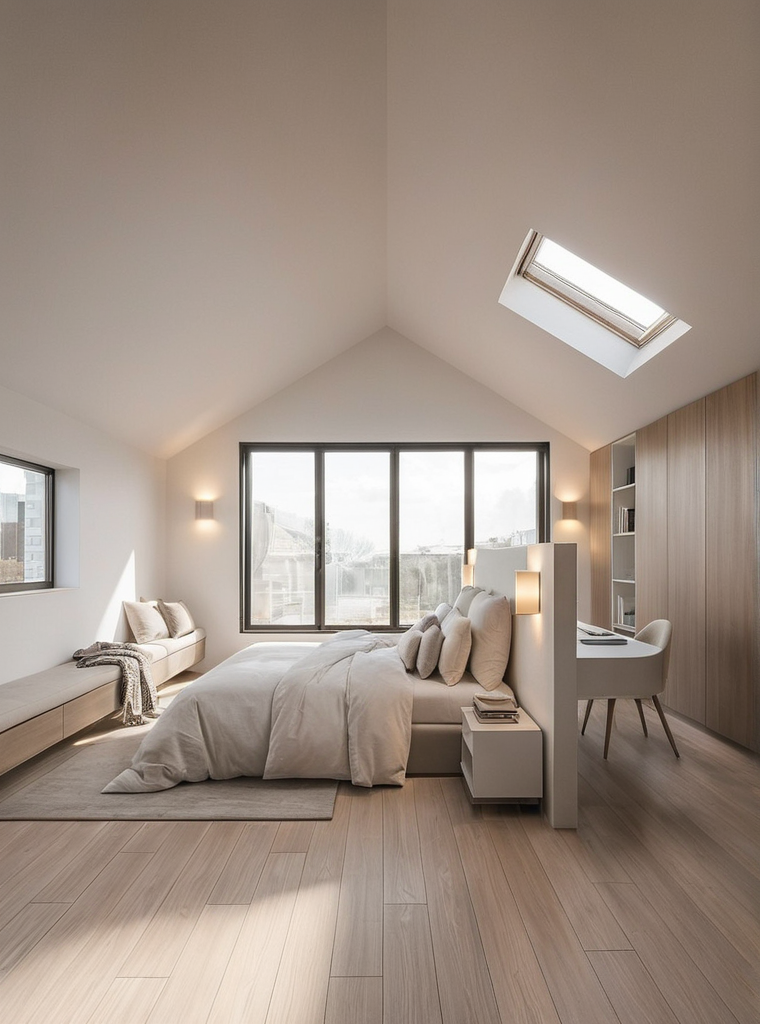
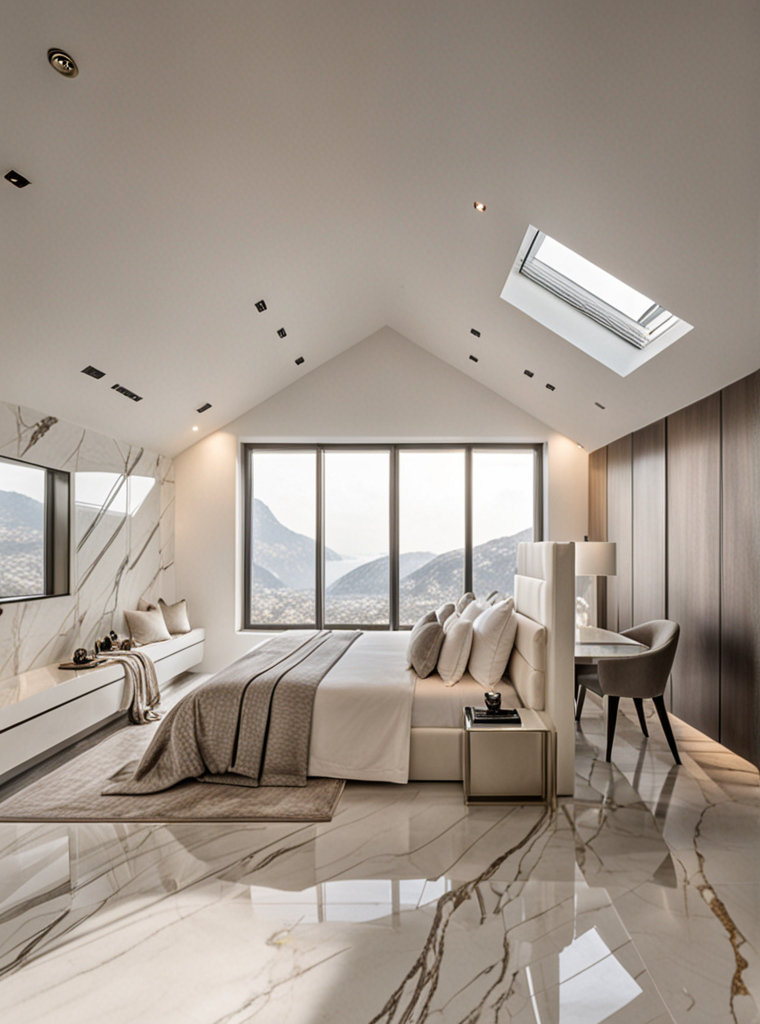
Update ControlNet model to depth for enhanced material transformations, refine BASE_PROMPT for specific marble flooring instructions, and adjust generation parameters for improved image quality.

diff --git a/steps/step3_generate.py b/steps/step3_generate.py
@@ -14,10 +14,10 @@ def generate_with_sdxl(
     width: int,
     height: int,
     seed: int = 123456,
-    strength: float = 0.15,  # Réduit pour moins modifier l'image originale
-    controlnet_scale: float = 0.65,  # Réduit pour moins d'artefacts
-    guidance_scale: float = 7.0,  # Réduit pour éviter les sur-détails
-    num_steps: int = 30  # Réduit pour moins de déformation
+    strength: float = 0.45,  # Équilibré : assez pour le sol, pas trop pour le reste
+    controlnet_scale: float = 0.7,  # Élevé pour préserver la structure
+    guidance_scale: float = 12.0,  # Élevé pour suivre strictement le prompt
+    num_steps: int = 50  # Plus de steps pour meilleure qualité
 ) -> Image.Image:
     """
     Génère l'image avec SDXL + ControlNet + Refiner
@@ -57,9 +57,9 @@ def generate_with_sdxl(
             prompt=prompt,
             negative_prompt=negative_prompt,
             image=base_image,
-            strength=0.10,  # Très léger pour juste affiner sans déformer
-            guidance_scale=6.0,  # Réduit pour éviter les artefacts
-            num_inference_steps=15,  # Moins d'étapes pour moins de changements
+            strength=0.15,  # Léger pour affiner les détails du marbre
+            guidance_scale=6.5,  # Équilibré
+            num_inference_steps=18,  # Équilibré
             generator=torch.Generator("cuda").manual_seed(seed)
         ).images[0]
         

diff --git a/prompts/base.py b/prompts/base.py
@@ -2,11 +2,22 @@
 # prompts/base.py
 
 BASE_PROMPT = (
-    "Changer le revêtments du sol, "
-
+    "ONLY transform floor surface into luxurious white marble flooring, "
+    "polished marble tiles, high-end marble texture, "
+    "realistic marble veining, premium marble finish, "
+    "STRICTLY preserve all walls exactly as original, "
+    "STRICTLY preserve all ceiling exactly as original, "
+    "STRICTLY preserve all lights and lamps exactly as original, "
+    "STRICTLY preserve all furniture exactly as original, "
+    "do not add any new elements, do not remove any elements, "
 )
 
 BASE_NEGATIVE = (
+    "different wall texture, changed wall color, modified walls, "
+    "different ceiling, modified ceiling, added ceiling elements, "
+    "missing lights, removed lamps, missing lamps, added lights, extra lights, "
+    "missing furniture, removed furniture, added furniture, extra furniture, "
+    "missing objects, removed objects, added objects, extra objects, "
     "overexposed, underexposed, flat lighting, "
     "compression artifacts, pixelated"
 )

diff --git a/pipeline.py b/pipeline.py
@@ -107,9 +107,14 @@ def run_pipeline(
         )
         
         print("\n🎭 Étape 5: Génération SDXL")
+        # Utiliser Depth au lieu de Canny pour permettre les transformations de matériaux
+        # Depth préserve la structure 3D mais pas les textures
+        control_img = control_images.get("depth") if control_images else None
+        print(f"   🎛  ControlNet utilisé: {'Depth' if control_img else 'None'}")
+        
         current_image = generate_with_sdxl(
             image=current_image,
-            control_image=control_images.get("canny") if control_images else None,
+            control_image=control_img,
             pipe=pipe,
             refiner=refiner if enable_refiner else None,
             scene_type=scene_type,

diff --git a/prompts/scenes.py b/prompts/scenes.py
@@ -36,12 +36,8 @@ NEGATIVE_PROMPTS = {
         "wrong ceiling height, disproportionate room, "
         "added objects, extra objects, "
         "added furniture, extra furniture, "
-        "added lights, extra lights, "
-        "added decorations, extra decorations, "
         "modified walls, changed walls, "
-        "modified floor, changed floor, "
         "modified ceiling, changed ceiling, "
-        "removed objects, missing objects, "
         "multiple heads, extra limbs, "
         "fused fingers, six fingers, "
         "no face, faceless, "

diff --git a/config/settings.py b/config/settings.py
@@ -4,7 +4,7 @@ USE_REFINER = True
 USE_UPSCALER = True
 
 SDXL_MODEL = "SG161222/RealVisXL_V4.0"
-CONTROLNET_MODEL = "diffusers/controlnet-canny-sdxl-1.0"
+CONTROLNET_MODEL = "diffusers/controlnet-depth-sdxl-1.0"  # Depth pour permettre les transformations de matériaux
 REFINER_MODEL = "stabilityai/stable-diffusion-xl-refiner-1.0"
 
 SEED = 123456
